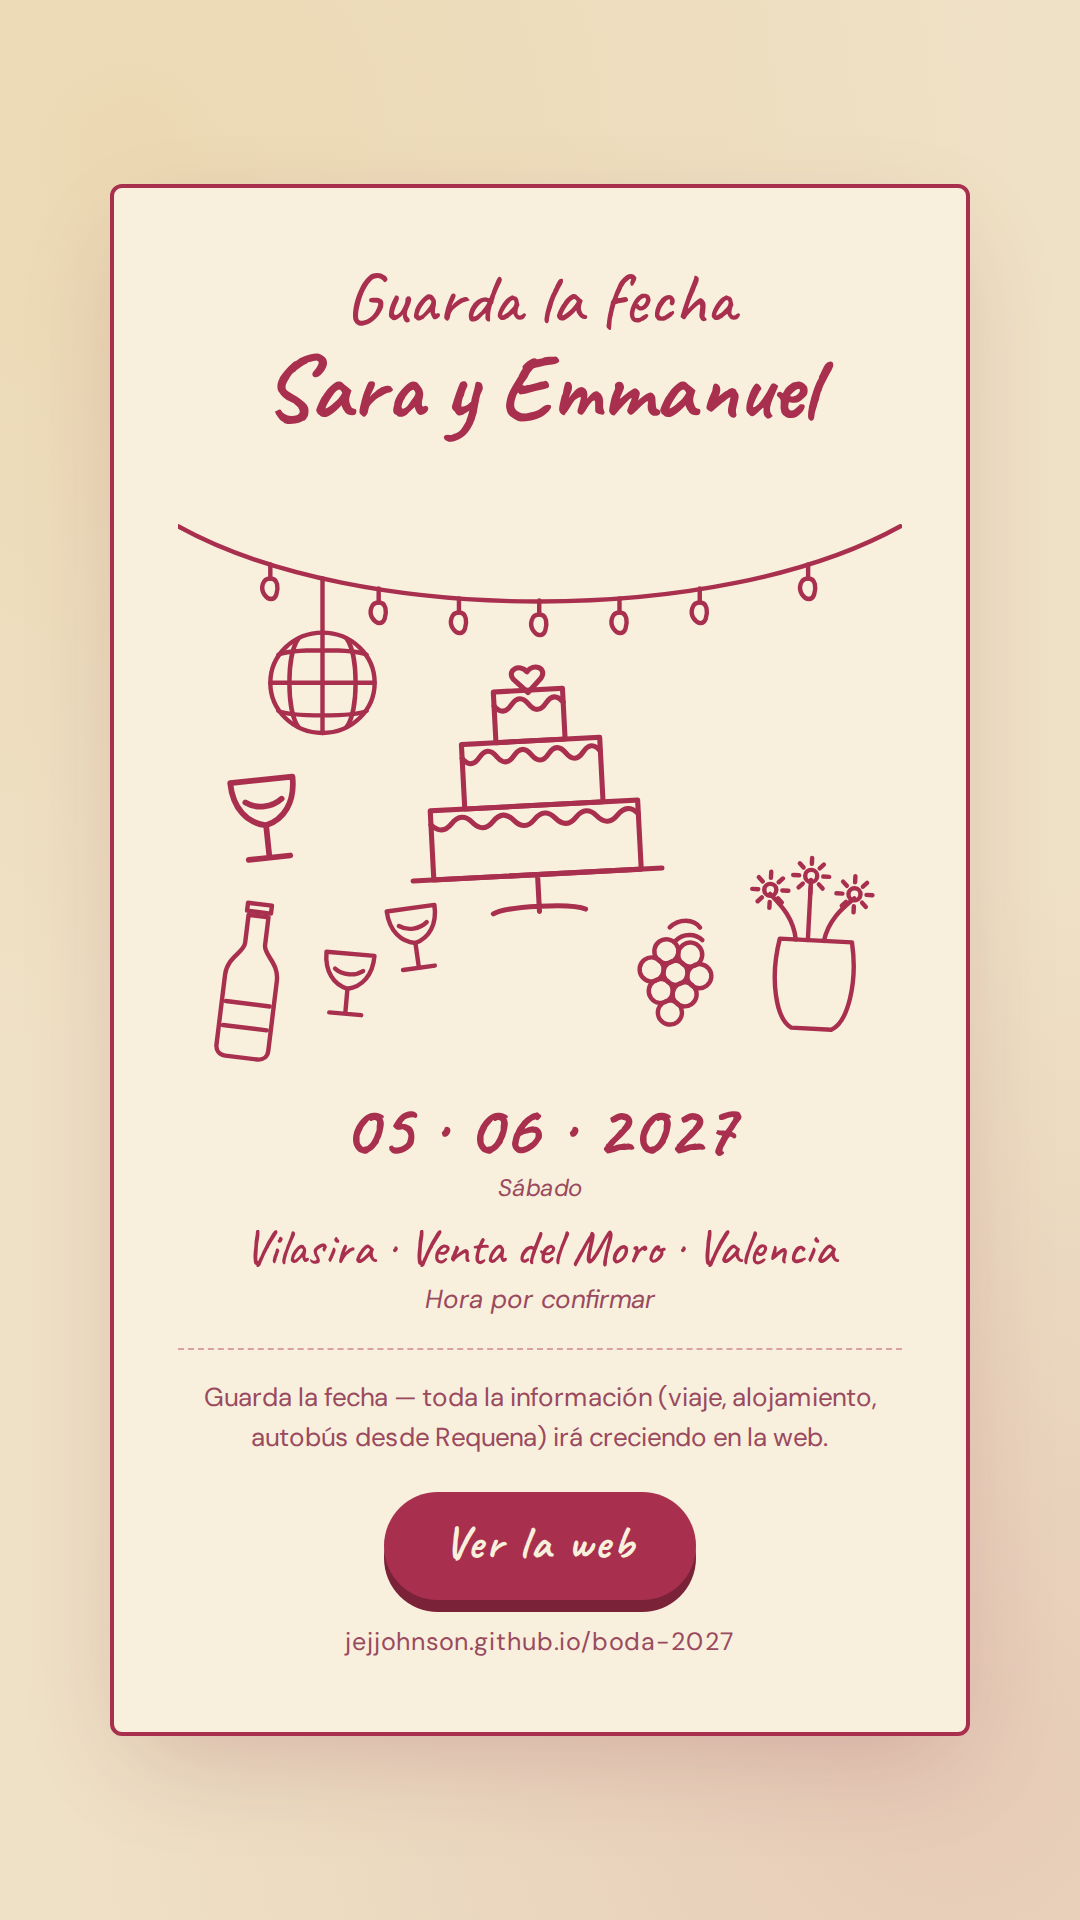
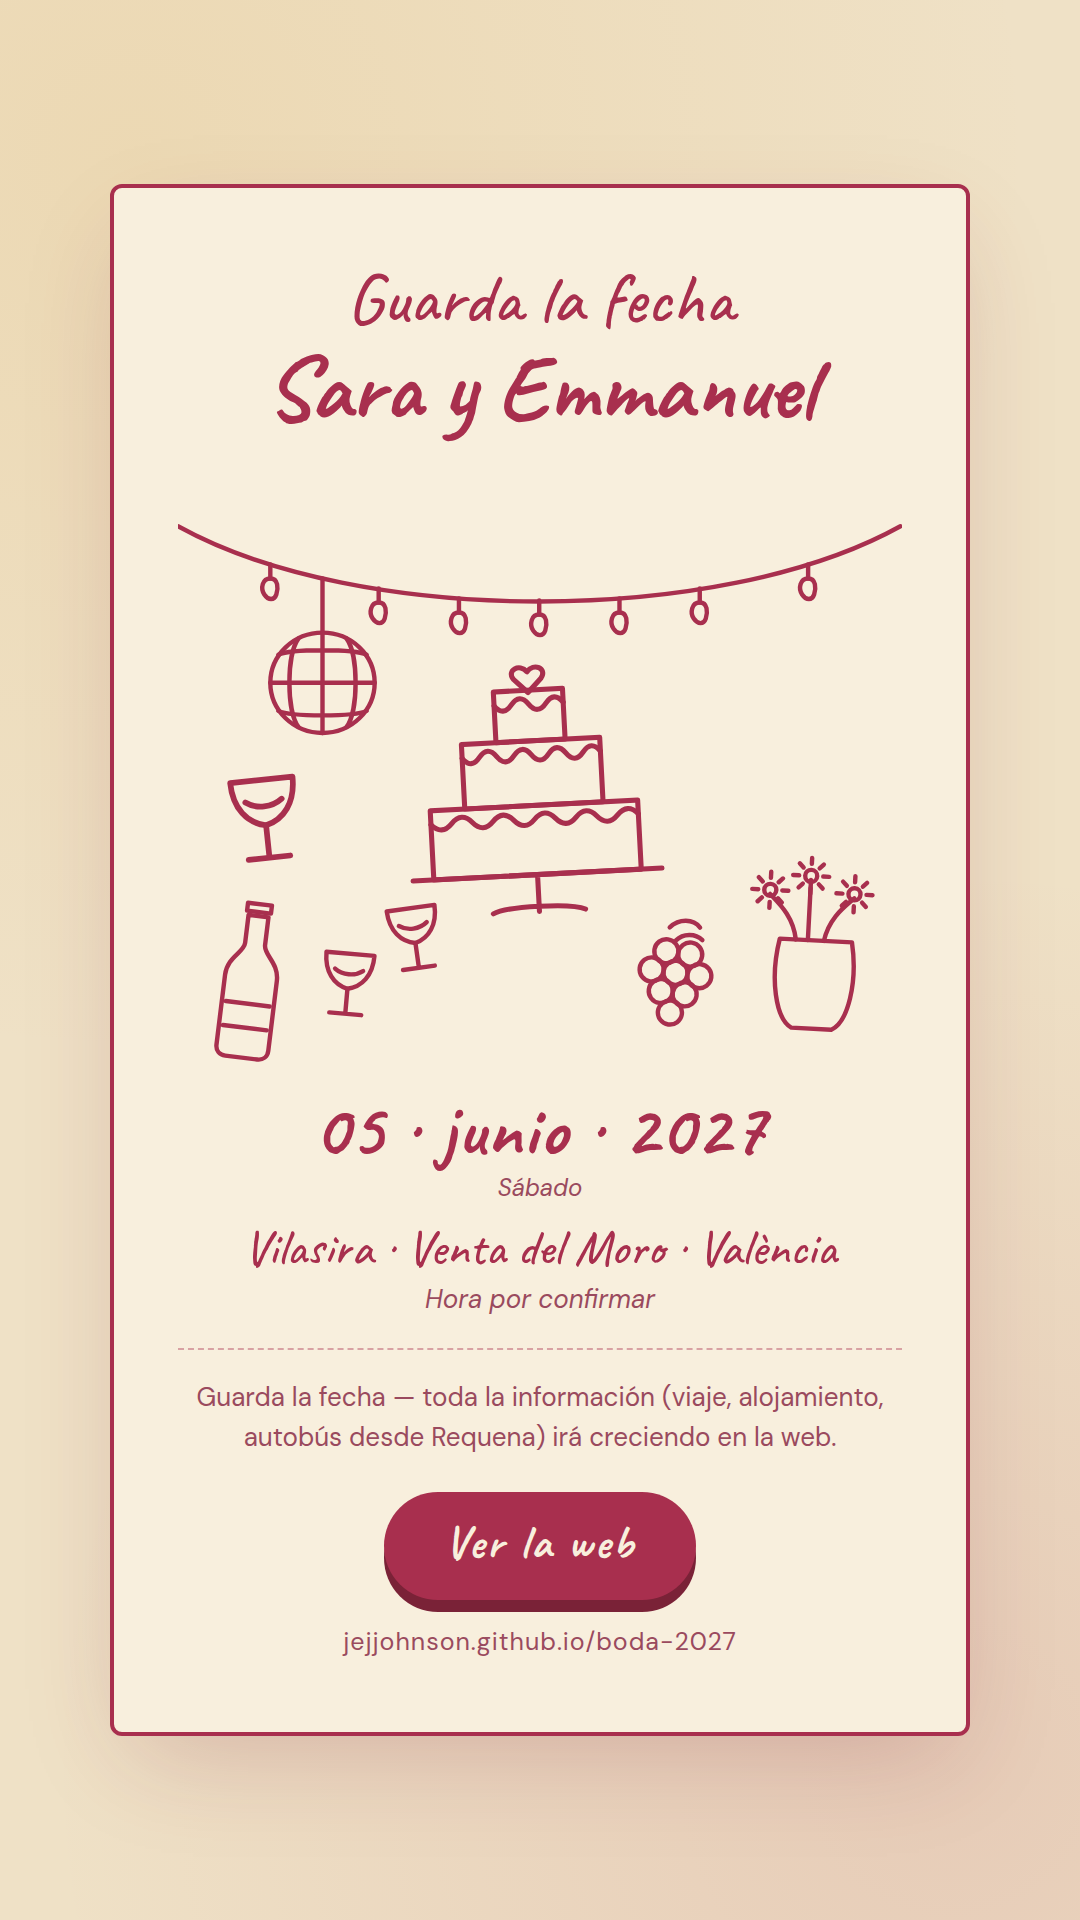
Fecha con el mes en letras (05 · junio · 2027 / 05 · June · 2027) en la web y el save-the-date; València en la tarjeta
Claude-Session: https://claude.ai/code/session_01XwbT1FLwweDD4ksXicNcTk

diff --git a/index.html b/index.html
@@ -289,7 +289,7 @@
 
     <p class="kicker"><span data-lang="es">Guarda la fecha</span><span data-lang="en">Save the Date</span></p>
     <h1>Sara <span class="amp"><span data-lang="es">y</span><span data-lang="en">and</span></span> Emmanuel</h1>
-    <p class="when">05 · 06 · 2027</p>
+    <p class="when">05 · <span data-lang="es">junio</span><span data-lang="en">June</span> · 2027</p>
     <p class="where"><a href="https://vilasira.com/" target="_blank" rel="noopener" style="color:inherit;border-bottom:1px solid rgba(138,117,112,.5);text-decoration:none">Vilasira</a> · Venta del Moro · València</p>
 
     <div class="count" id="count">
@@ -481,7 +481,7 @@
   <p class="names">Sara <span data-lang="es">y</span><span data-lang="en">and</span> Emmanuel</p>
   <p style="font-family:'Caveat',cursive;font-size:15px;opacity:.9;letter-spacing:.04em">
      Sara Buezo-Montero <span data-lang="es">y</span><span data-lang="en">and</span> Juan Emmanuel Johnson</p>
-  <p>5 · 06 · 2027 · <a class="lnk" href="https://vilasira.com/" target="_blank" rel="noopener">Vilasira</a>, Venta del Moro (València)</p>
+  <p>05 · <span data-lang="es">junio</span><span data-lang="en">June</span> · 2027 · <a class="lnk" href="https://vilasira.com/" target="_blank" rel="noopener">Vilasira</a>, Venta del Moro (València)</p>
   <div class="sep"></div>
   <p><span data-lang="es">¿Dudas? Escríbenos:</span><span data-lang="en">Questions? Message us:</span></p>
   <div class="contact">

diff --git a/save-the-date/index.html b/save-the-date/index.html
@@ -96,8 +96,8 @@
       <use href="#fl" x="24" y="8"/><use href="#fl" x="4" y="16"/><use href="#fl" x="46" y="16"/></g>
   </svg>
 
-  <p class="hand-date">05 · 06 · 2027<small><span data-lang="es">Sábado</span><span data-lang="en">Saturday</span></small></p>
-  <p class="hand-where">Vilasira · Venta del Moro · Valencia<em><span data-lang="es">Hora por confirmar</span><span data-lang="en">Time to be confirmed</span></em></p>
+  <p class="hand-date">05 · <span data-lang="es">junio</span><span data-lang="en">June</span> · 2027<small><span data-lang="es">Sábado</span><span data-lang="en">Saturday</span></small></p>
+  <p class="hand-where">Vilasira · Venta del Moro · València<em><span data-lang="es">Hora por confirmar</span><span data-lang="en">Time to be confirmed</span></em></p>
 
   <p class="note"><span data-lang="es">Guarda la fecha — toda la información (viaje, alojamiento, autobús desde Requena) irá creciendo en la web.</span><span data-lang="en">Save the date — travel, lodging and the Requena shuttle details will keep growing on the website.</span></p>
   <a class="cta" href="../"><span data-lang="es">Ver la web</span><span data-lang="en">Open the website</span></a>
